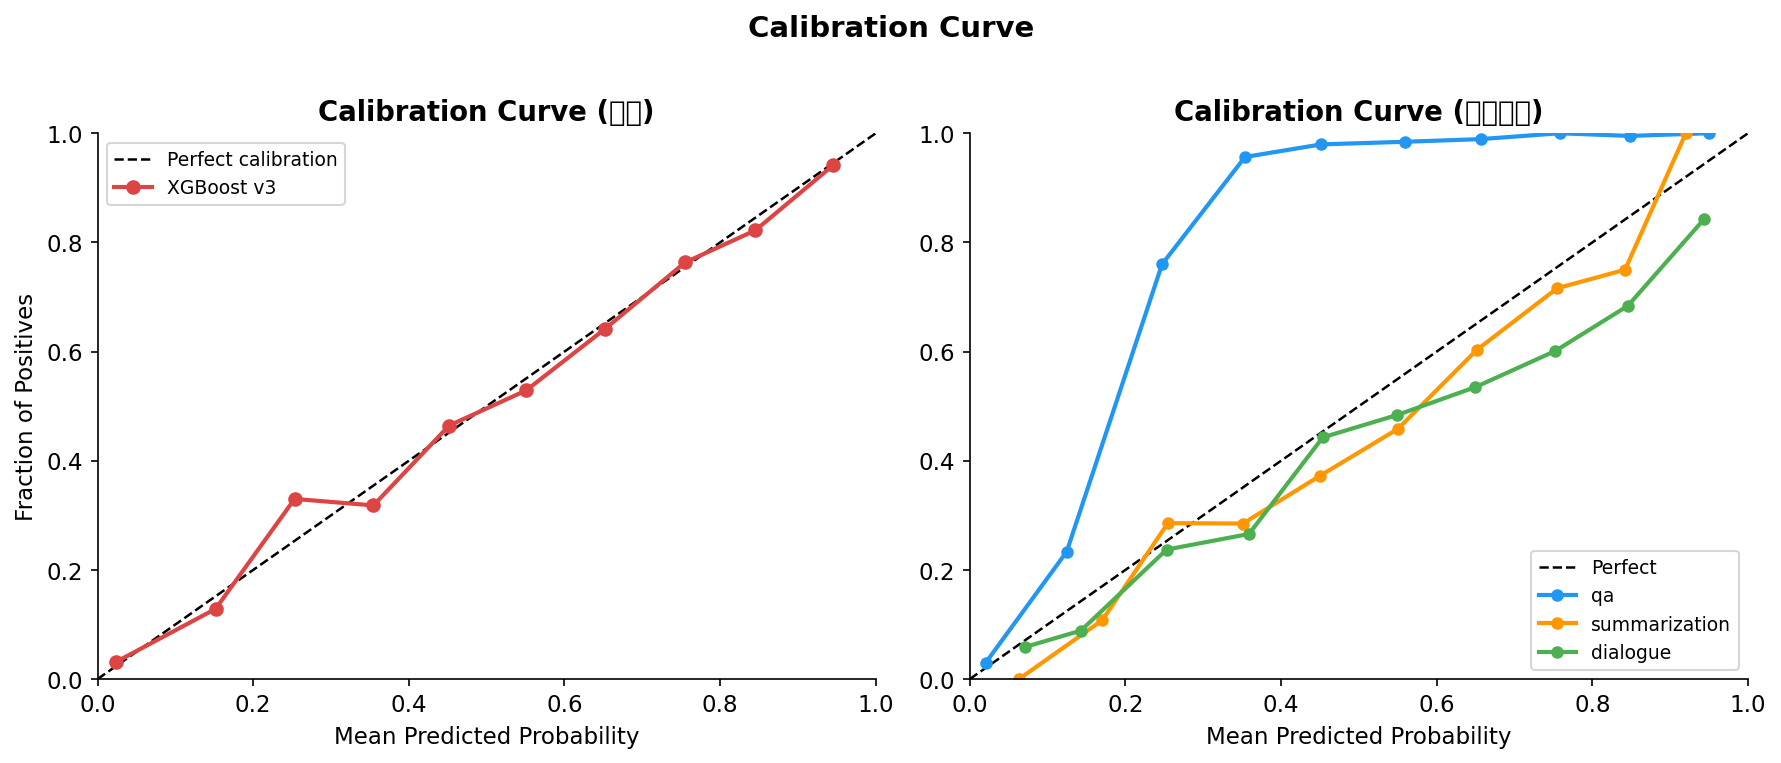
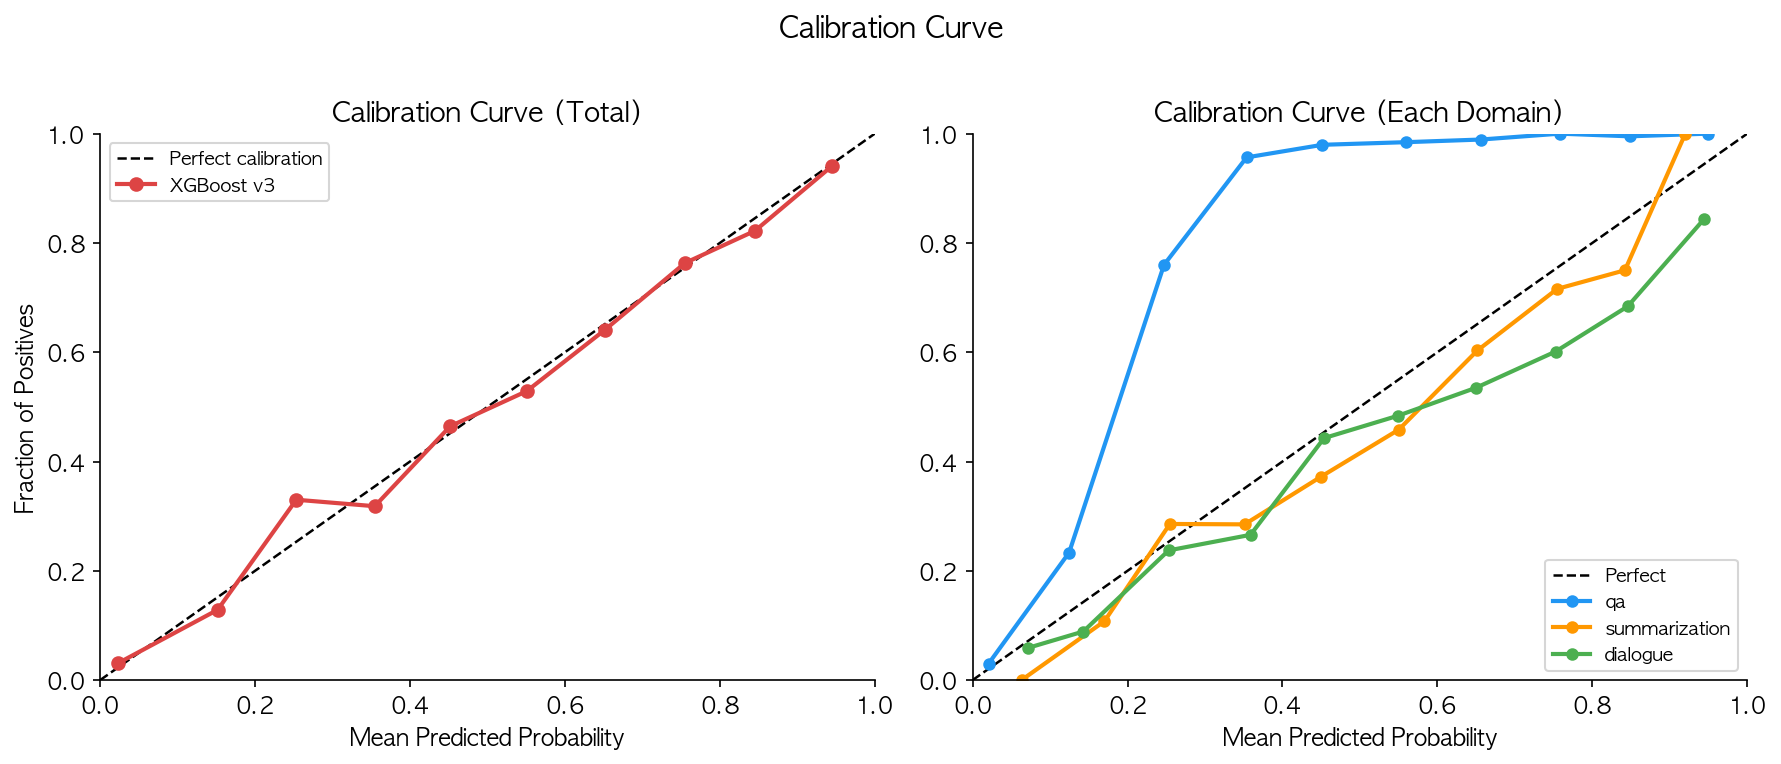
dd

diff --git a/scripts/step8_error_analysis.py b/scripts/step8_error_analysis.py
@@ -1,0 +1,290 @@
+"""
+Step 8: 오답 유형 분석 (Error Analysis)
+
+입력 : data/test_predictions.csv, splits/test.csv
+출력 : figures/error_fp_fn_by_domain.png
+       figures/error_feature_dist.png
+       figures/error_dialogue_features.png
+       results/error_analysis_dialogue_samples.csv
+
+분석 항목
+  1. 도메인별 FP / FN 비율
+  2. FP / FN 케이스의 피처값 분포
+  3. Dialogue 도메인 오답의 피처 패턴 및 예시
+"""
+
+import os
+import numpy as np
+import pandas as pd
+import matplotlib.pyplot as plt
+import matplotlib.patches as mpatches
+from pathlib import Path
+from collections import Counter
+
+BASE         = Path(__file__).parent.parent   # Code/
+PRED_PATH    = BASE / "data/test_predictions.csv"
+TEST_PATH    = BASE / "splits/test.csv"
+FIG_DIR      = BASE / "figures"
+RESULTS_DIR  = BASE / "results"
+FEATURES     = ["nli_score", "ner_jaccard", "sbert_cosine", "rouge_l"]
+
+os.makedirs(FIG_DIR, exist_ok=True)
+os.makedirs(RESULTS_DIR, exist_ok=True)
+
+# 한국어 폰트 설정
+plt.rcParams["font.family"] = "AppleGothic"
+plt.rcParams["axes.unicode_minus"] = False
+
+plt.rcParams.update({
+    "figure.dpi"       : 150,
+    "font.size"        : 11,
+    "axes.spines.top"  : False,
+    "axes.spines.right": False,
+})
+
+
+# ============================================================
+# 데이터 로드 및 병합
+# ============================================================
+
+pred = pd.read_csv(PRED_PATH)
+test = pd.read_csv(TEST_PATH)
+
+# 행 순서가 동일하므로 index 기준 병합
+df = test[["context", "question", "response"]].copy()
+df = pd.concat([df, pred], axis=1)
+
+# 오답 유형 분류
+#   FP (False Positive) : 실제 0(정상) → 예측 1(환각) — 억울하게 환각 판정
+#   FN (False Negative) : 실제 1(환각) → 예측 0(정상) — 환각을 놓침
+#   TP / TN : 정답
+df["error_type"] = "correct"
+df.loc[(df["label"] == 0) & (df["predicted_label"] == 1), "error_type"] = "FP"
+df.loc[(df["label"] == 1) & (df["predicted_label"] == 0), "error_type"] = "FN"
+
+print(f"전체 테스트 샘플: {len(df):,}")
+print(df["error_type"].value_counts())
+print(f"\n오답률: {(df['error_type'] != 'correct').mean():.3f}")
+
+
+# ============================================================
+# 1. 도메인별 FP / FN 비율
+# ============================================================
+
+print("\n[1] 도메인별 FP / FN 분석")
+
+domains = sorted(df["domain"].unique())
+domain_stats = []
+for d in domains:
+    sub = df[df["domain"] == d]
+    n_total = len(sub)
+    n_fp = (sub["error_type"] == "FP").sum()
+    n_fn = (sub["error_type"] == "FN").sum()
+    n_correct = (sub["error_type"] == "correct").sum()
+    domain_stats.append({
+        "domain"     : d,
+        "n_total"    : n_total,
+        "correct"    : n_correct,
+        "FP"         : n_fp,
+        "FN"         : n_fn,
+        "FP_rate"    : n_fp / n_total,
+        "FN_rate"    : n_fn / n_total,
+        "error_rate" : (n_fp + n_fn) / n_total,
+    })
+    print(f"  {d:<18} total={n_total}  correct={n_correct}  FP={n_fp}({n_fp/n_total:.2%})  FN={n_fn}({n_fn/n_total:.2%})")
+
+df_stats = pd.DataFrame(domain_stats)
+
+# 시각화
+fig, axes = plt.subplots(1, 2, figsize=(13, 5))
+
+# 1-1. 도메인별 FP / FN 절대 수
+ax = axes[0]
+x = np.arange(len(domains))
+w = 0.35
+bars_fp = ax.bar(x - w/2, df_stats["FP"], width=w, label="FP (정상→환각 오판)", color="#E53935", alpha=0.85)
+bars_fn = ax.bar(x + w/2, df_stats["FN"], width=w, label="FN (환각 미탐지)",    color="#1E88E5", alpha=0.85)
+ax.bar_label(bars_fp, padding=3, fontsize=9)
+ax.bar_label(bars_fn, padding=3, fontsize=9)
+ax.set_xticks(x); ax.set_xticklabels(domains)
+ax.set_ylabel("샘플 수")
+ax.set_title("도메인별 FP / FN 수", fontweight="bold")
+ax.legend(fontsize=9)
+
+# 1-2. 도메인별 FP / FN 비율 (stacked)
+ax = axes[1]
+correct_rate = df_stats["correct"] / df_stats["n_total"]
+fp_rate      = df_stats["FP_rate"]
+fn_rate      = df_stats["FN_rate"]
+
+ax.bar(domains, correct_rate, label="Correct",           color="#43A047", alpha=0.85)
+ax.bar(domains, fp_rate,      bottom=correct_rate,       label="FP",  color="#E53935", alpha=0.85)
+ax.bar(domains, fn_rate,      bottom=correct_rate+fp_rate, label="FN", color="#1E88E5", alpha=0.85)
+
+for i, d in enumerate(domains):
+    ax.text(i, correct_rate[i] + fp_rate[i] + fn_rate[i] + 0.01,
+            f"{(fp_rate[i]+fn_rate[i]):.1%}", ha="center", fontsize=9, fontweight="bold")
+
+ax.set_ylim(0, 1.1)
+ax.set_ylabel("비율")
+ax.set_title("도메인별 오답 비율 (stacked)", fontweight="bold")
+ax.legend(fontsize=9, loc="upper right")
+
+plt.suptitle("Domain-wise Error Analysis (FP / FN)", fontsize=13, fontweight="bold", y=1.02)
+plt.tight_layout()
+plt.savefig(f"{FIG_DIR}/error_fp_fn_by_domain.png", bbox_inches="tight")
+plt.close()
+print(f"\n  저장: {FIG_DIR}/error_fp_fn_by_domain.png")
+
+
+# ============================================================
+# 2. FP / FN 케이스의 피처값 분포
+# ============================================================
+
+print("\n[2] FP / FN 피처값 분포 분석")
+
+fig, axes = plt.subplots(2, 4, figsize=(16, 8))
+colors = {"FP": "#E53935", "FN": "#1E88E5", "correct": "#43A047"}
+labels = {"FP": "FP (정상→환각 오판)", "FN": "FN (환각 미탐지)", "correct": "Correct"}
+
+for col_idx, feat in enumerate(FEATURES):
+    for row_idx, error_type in enumerate(["FP", "FN"]):
+        ax = axes[row_idx][col_idx]
+
+        # correct vs error_type
+        vals_correct = df[df["error_type"] == "correct"][feat].dropna()
+        vals_error   = df[df["error_type"] == error_type][feat].dropna()
+
+        bins = np.linspace(
+            min(vals_correct.min(), vals_error.min()),
+            max(vals_correct.max(), vals_error.max()),
+            30
+        )
+        ax.hist(vals_correct, bins=bins, alpha=0.5, color="#43A047", label="Correct", density=True)
+        ax.hist(vals_error,   bins=bins, alpha=0.7, color=colors[error_type], label=error_type, density=True)
+
+        ax.axvline(vals_correct.median(), color="#43A047", linestyle="--", lw=1.2)
+        ax.axvline(vals_error.median(),   color=colors[error_type], linestyle="--", lw=1.2)
+
+        ax.set_title(f"{feat}\n({error_type})", fontsize=9, fontweight="bold")
+        ax.set_xlabel(feat, fontsize=8)
+        if col_idx == 0:
+            ax.set_ylabel("Density", fontsize=8)
+        ax.legend(fontsize=7)
+
+        # median 값 출력
+        print(f"  {feat:18} | {error_type} median={vals_error.median():.3f}  correct median={vals_correct.median():.3f}")
+
+plt.suptitle("Feature Distribution: FP / FN vs Correct", fontsize=13, fontweight="bold")
+plt.tight_layout()
+plt.savefig(f"{FIG_DIR}/error_feature_dist.png", bbox_inches="tight")
+plt.close()
+print(f"\n  저장: {FIG_DIR}/error_feature_dist.png")
+
+
+# ============================================================
+# 3. Dialogue 도메인 오답 심층 분석
+# ============================================================
+
+print("\n[3] Dialogue 도메인 오답 분석")
+
+dia = df[df["domain"] == "dialogue"].copy()
+dia_fp = dia[dia["error_type"] == "FP"]
+dia_fn = dia[dia["error_type"] == "FN"]
+dia_correct = dia[dia["error_type"] == "correct"]
+
+print(f"  Dialogue 전체: {len(dia)}  FP: {len(dia_fp)}  FN: {len(dia_fn)}  Correct: {len(dia_correct)}")
+
+# 3-1. Dialogue FP / FN 피처 분포 비교
+fig, axes = plt.subplots(1, 4, figsize=(16, 4))
+for i, feat in enumerate(FEATURES):
+    ax = axes[i]
+    for etype, color, label in [
+        ("correct", "#43A047", "Correct"),
+        ("FP",      "#E53935", "FP"),
+        ("FN",      "#1E88E5", "FN"),
+    ]:
+        vals = dia[dia["error_type"] == etype][feat].dropna()
+        ax.hist(vals, bins=20, alpha=0.55, color=color, label=label, density=True)
+        ax.axvline(vals.median(), color=color, linestyle="--", lw=1.5)
+
+    ax.set_title(feat, fontweight="bold", fontsize=10)
+    ax.set_xlabel("value", fontsize=9)
+    if i == 0:
+        ax.set_ylabel("Density")
+    ax.legend(fontsize=8)
+
+plt.suptitle("Dialogue Domain — Feature Distribution by Error Type", fontsize=12, fontweight="bold")
+plt.tight_layout()
+plt.savefig(f"{FIG_DIR}/error_dialogue_features.png", bbox_inches="tight")
+plt.close()
+print(f"  저장: {FIG_DIR}/error_dialogue_features.png")
+
+# 3-2. Dialogue FP 피처 통계 출력
+print("\n  [Dialogue FP 피처 통계] — 정상인데 환각으로 오판한 케이스")
+print(dia_fp[FEATURES].describe().round(3).to_string())
+
+print("\n  [Dialogue FN 피처 통계] — 환각인데 정상으로 놓친 케이스")
+print(dia_fn[FEATURES].describe().round(3).to_string())
+
+# 3-3. Dialogue FN 케이스: response에만 등장하는 단어 빈도 (hallucination 힌트)
+print("\n  [Dialogue FN — context에 없는 response 단어 분석]")
+
+def get_novel_words(context: str, response: str) -> list:
+    """response에는 있지만 context에는 없는 단어 (소문자, 3글자 이상)"""
+    ctx_words  = set(str(context).lower().split())
+    resp_words = set(str(response).lower().split())
+    novel = [w.strip(".,!?;:'\"") for w in resp_words - ctx_words if len(w) >= 3]
+    return [w for w in novel if w.isalpha()]
+
+fn_novel_words = []
+for _, row in dia_fn.iterrows():
+    fn_novel_words.extend(get_novel_words(row["context"], row["response"]))
+
+# 불용어 간단 제거
+STOPWORDS = {"the", "and", "that", "this", "with", "for", "are", "was",
+             "have", "has", "been", "not", "you", "what", "but", "they",
+             "from", "will", "can", "its", "all", "one", "our", "your",
+             "their", "would", "could", "should", "also", "more", "just"}
+fn_novel_words = [w for w in fn_novel_words if w not in STOPWORDS]
+
+top_novel = Counter(fn_novel_words).most_common(30)
+print("  FN 케이스에서 context에 없는 단어 Top 30:")
+for word, cnt in top_novel:
+    print(f"    {word:<20} {cnt}회")
+
+# 3-4. FP / FN 예시 저장 (각 20개)
+fp_samples = dia_fp[["context", "question", "response", "label", "predicted_label",
+                      "predicted_proba"] + FEATURES].head(20)
+fn_samples = dia_fn[["context", "question", "response", "label", "predicted_label",
+                      "predicted_proba"] + FEATURES].head(20)
+
+fp_samples.insert(0, "error_type", "FP")
+fn_samples.insert(0, "error_type", "FN")
+
+samples = pd.concat([fp_samples, fn_samples], ignore_index=True)
+out_path = f"{RESULTS_DIR}/error_analysis_dialogue_samples.csv"
+samples.to_csv(out_path, index=False)
+print(f"\n  Dialogue 오답 예시 저장: {out_path} ({len(samples)}개)")
+
+
+# ============================================================
+# 요약 출력
+# ============================================================
+
+print("\n" + "=" * 60)
+print("오답 분석 요약")
+print("=" * 60)
+print(f"\n전체 오답률: {(df['error_type'] != 'correct').mean():.2%}")
+print(f"  FP (정상→환각 오판): {(df['error_type']=='FP').sum()}개 ({(df['error_type']=='FP').mean():.2%})")
+print(f"  FN (환각 미탐지)   : {(df['error_type']=='FN').sum()}개 ({(df['error_type']=='FN').mean():.2%})")
+
+print("\n[도메인별 오답률 요약]")
+for _, row in df_stats.iterrows():
+    print(f"  {row['domain']:<18} 오답률={row['error_rate']:.2%}  FP={row['FP_rate']:.2%}  FN={row['FN_rate']:.2%}")
+
+print("\n생성된 파일:")
+print(f"  {FIG_DIR}/error_fp_fn_by_domain.png")
+print(f"  {FIG_DIR}/error_feature_dist.png")
+print(f"  {FIG_DIR}/error_dialogue_features.png")
+print(f"  {RESULTS_DIR}/error_analysis_dialogue_samples.csv")

diff --git a/scripts/step7_analysis.py b/scripts/step7_analysis.py
@@ -8,22 +8,27 @@ Step 7: SHAP 분석 + Calibration Curve + 도메인별 AUROC 시각화
        figures/domain_roc.png
 """
 
+import os
 import pickle
 import numpy as np
 import pandas as pd
 import matplotlib.pyplot as plt
 import matplotlib.ticker as mticker
 import shap
+from pathlib import Path
 from sklearn.calibration import calibration_curve
 from sklearn.metrics import roc_curve, auc
 
-MODEL_PATH = "../models/xgb_model_v3_all4.pkl"
-PRED_PATH  = "../data/test_predictions.csv"
-FIG_DIR    = "../figures"
+BASE       = Path(__file__).parent.parent
+MODEL_PATH = BASE / "models/xgb_model_v3_all4.pkl"
+PRED_PATH  = BASE / "data/test_predictions.csv"
+FIG_DIR    = BASE / "figures"
 FEATURES   = ["nli_score", "ner_jaccard", "sbert_cosine", "rouge_l"]
 
-import os
 os.makedirs(FIG_DIR, exist_ok=True)
+
+plt.rcParams["font.family"] = "AppleGothic"
+plt.rcParams["axes.unicode_minus"] = False
 
 plt.rcParams.update({
     "figure.dpi"    : 150,
